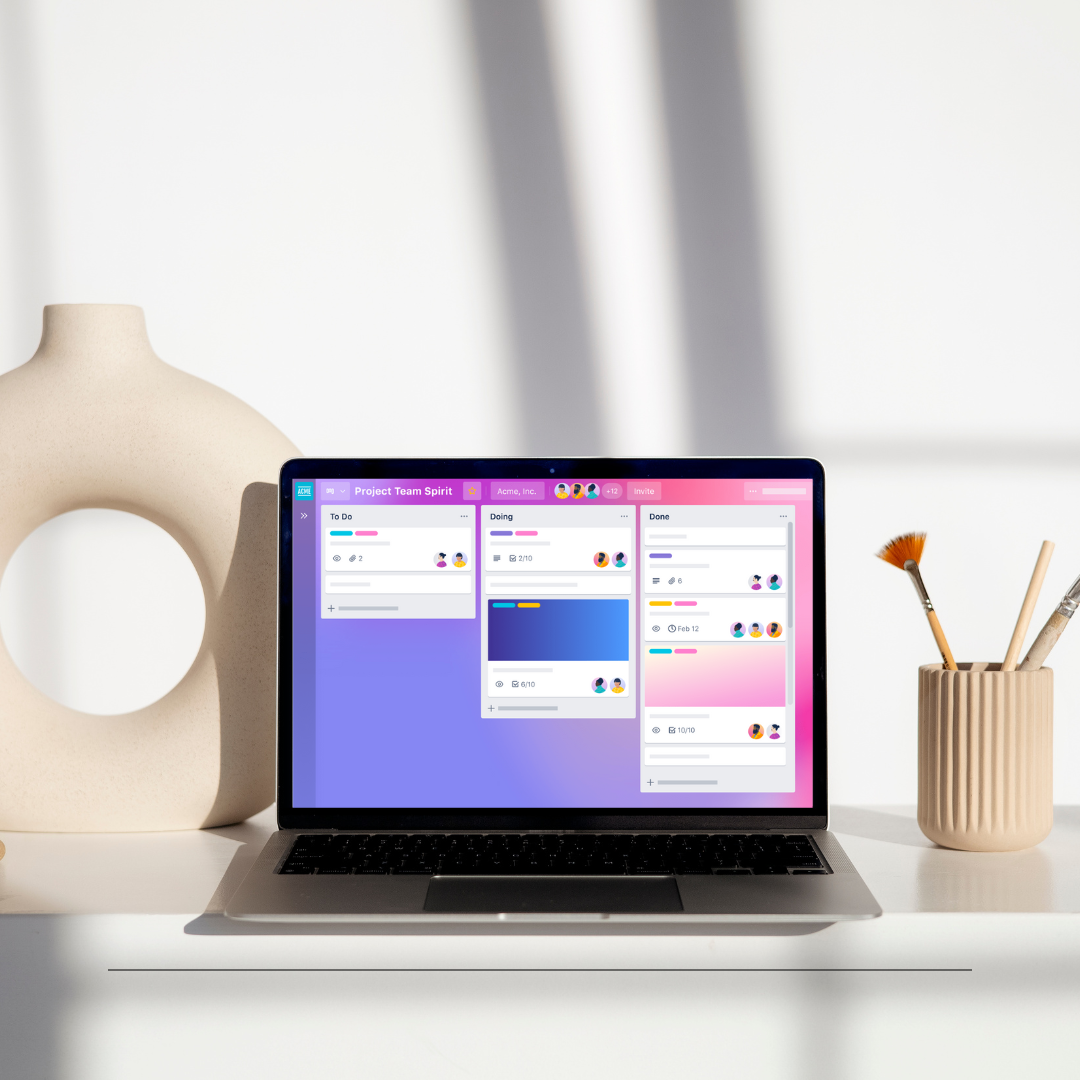
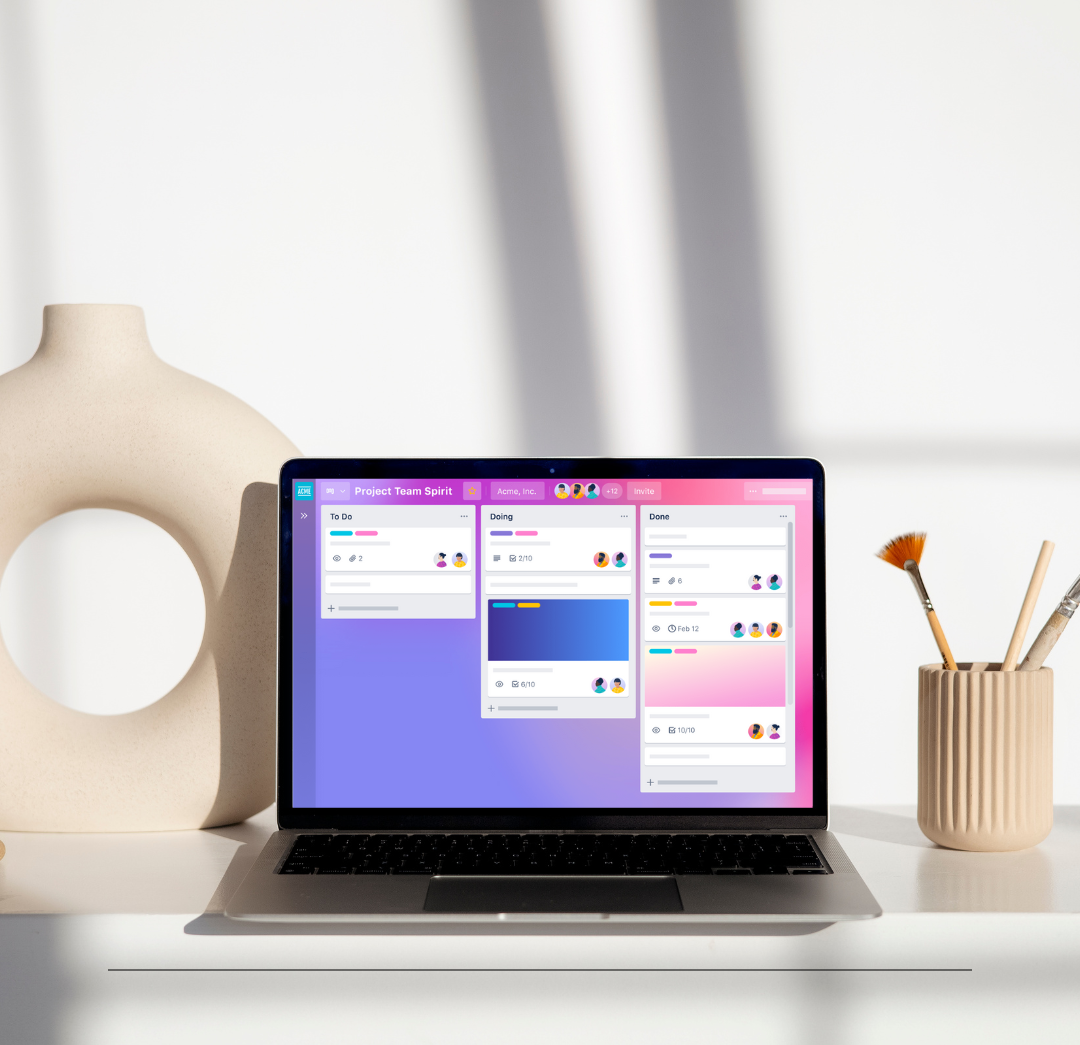
homepage

diff --git a/vue-project/src/views/Auth.vue b/vue-project/src/views/Auth.vue
@@ -1,5 +1,5 @@
 <template>
-  <section class="background">
+  <section class="background gris">
     <div class="d-flex align-items-center flex-column">
       <h2 class="lean">LEAN PROJECT MANAGEMENT.</h2>
       <h2 class="simpli">SIMPLIFIED.</h2>
@@ -12,7 +12,7 @@
       </h3>
       <p class="size-1 mx-5">The Tool task management board gives you an excellent overview of your current work situation.
         Visualizing work leads to improved productivity.</p>
-      <img class="tablero" src="../../public/Tablero-trello.png" alt="tablero">
+      <img class="tablero img-fluid" src="../../public/Tablero-trello.png" alt="tablero">
     </div>
   </section>
 
@@ -48,9 +48,10 @@ export default {
 <style>
 .background {
   background-image: url(../../public/Website.png);
-  height: 58.2vh;
+  height: 55vh;
   background-repeat: no-repeat;
   background-size: contain;
+  background-position: center;
 }
 
 .lean {
@@ -76,7 +77,7 @@ export default {
 }
 
 .h-1 {
-  padding-top: 10%;
+  padding-top: 7%;
   height: 60vh;
 
 }
@@ -91,7 +92,22 @@ export default {
 }
 
 .tablero{
-  width: 70%;
+  width: 85%;
 }
 
+@media (min-width: 900px){
+  .background{
+    height: 180vh;
+    background-size: auto;
+
+
+  }
+}
+@media (min-width: 400px) and (max-width: 900px) {
+  .background{
+    height: 120vh;
+    background-size: auto;
+
+  }
+}
 </style>

diff --git a/vue-project/src/components/taskItem.vue b/vue-project/src/components/taskItem.vue
@@ -100,8 +100,6 @@ input{
   border: 0;
     font-size: 13px;
     margin: 8px;
-
-
 }
 
 </style>
